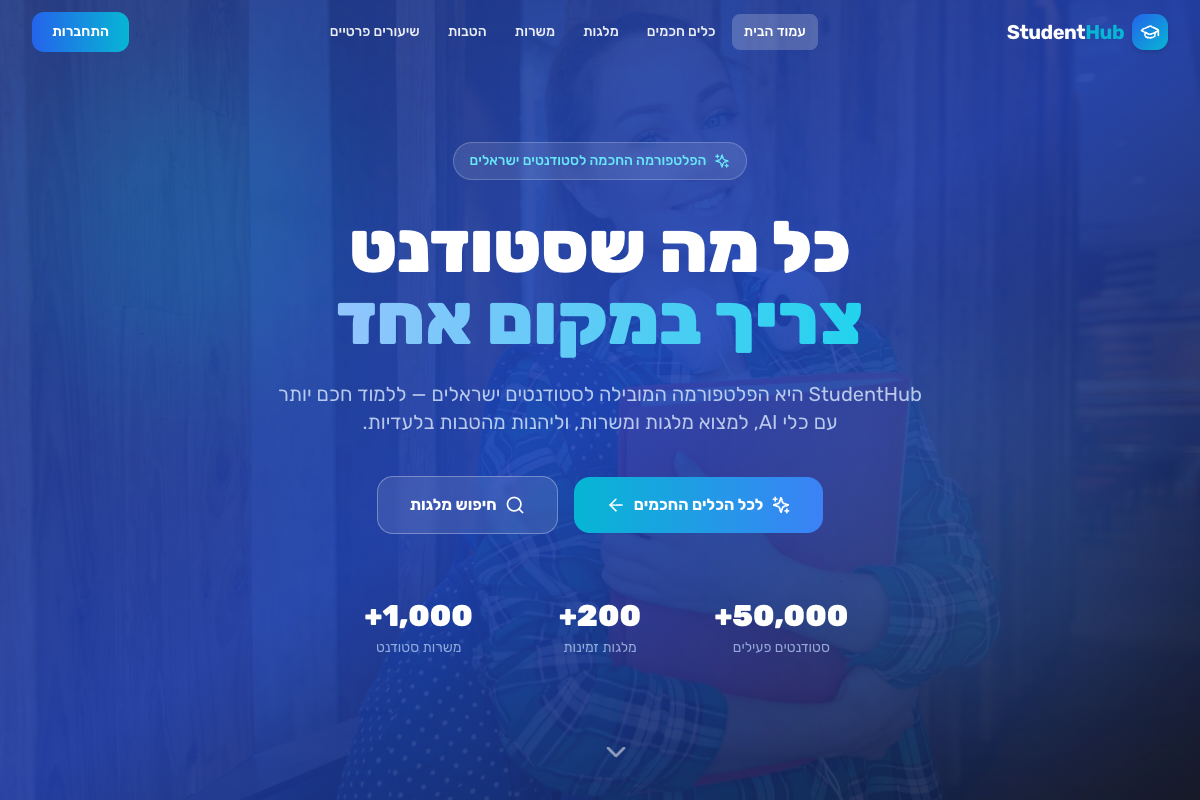
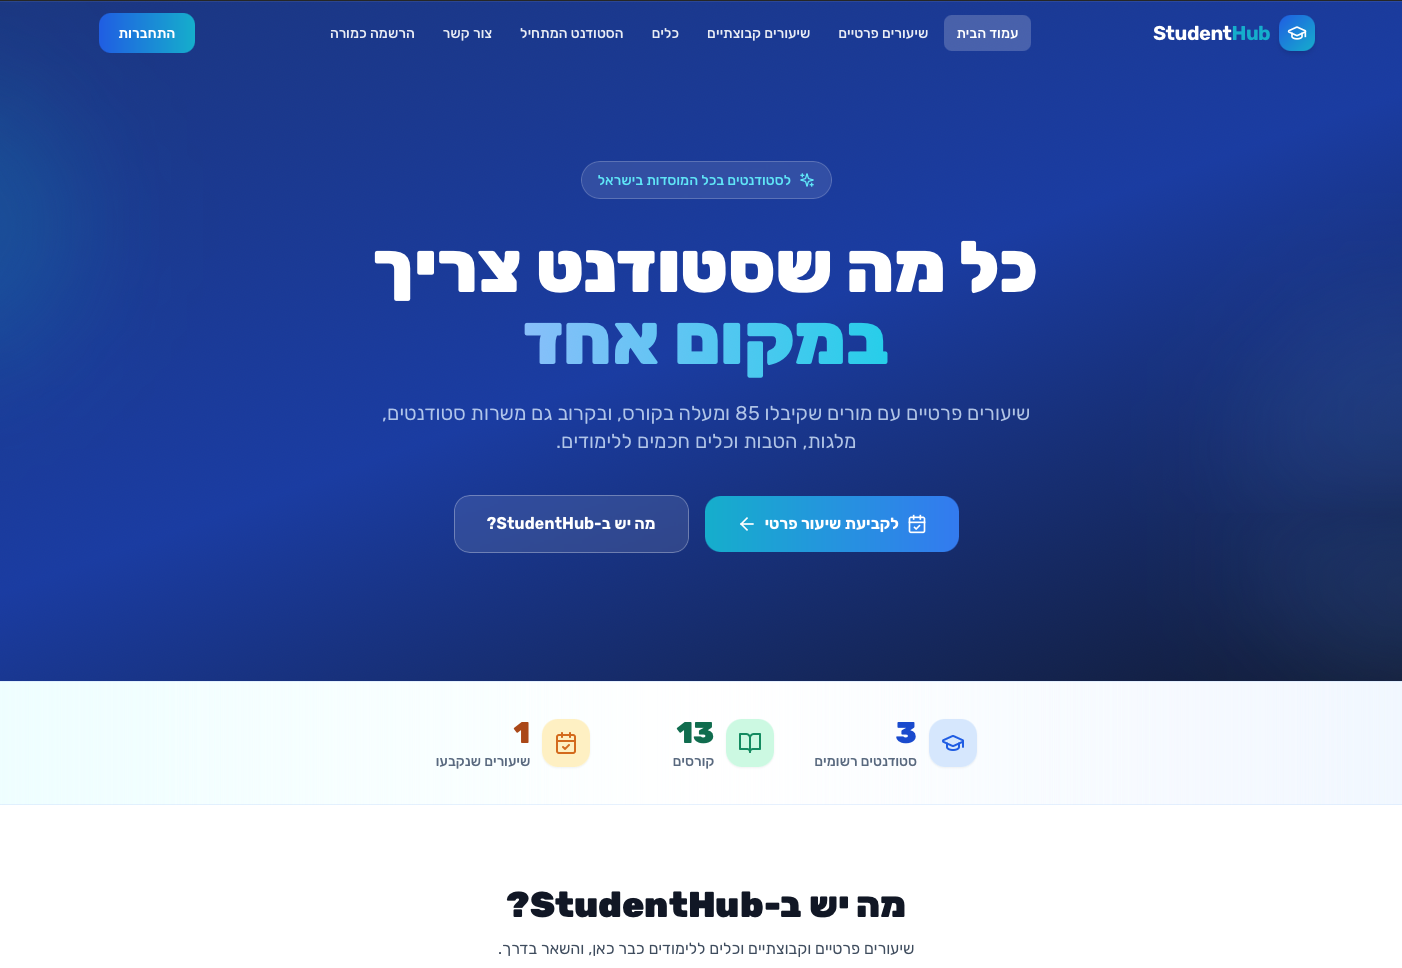
Update StudentHub link and image

diff --git a/index.html b/index.html
@@ -136,7 +136,7 @@
                                     with advanced features, AI-powered tools, and everything a
                                     student needs in one platform.
                                 </p>
-                                <a href="https://studenthub-israeli-s-2l2i.bolt.host/" target="_blank" class="project-button button rounded-corners-button">
+                                <a href="https://studenthub.co.il/" target="_blank" class="project-button button rounded-corners-button">
                                     View Live site
                                 </a>
                             </div>
